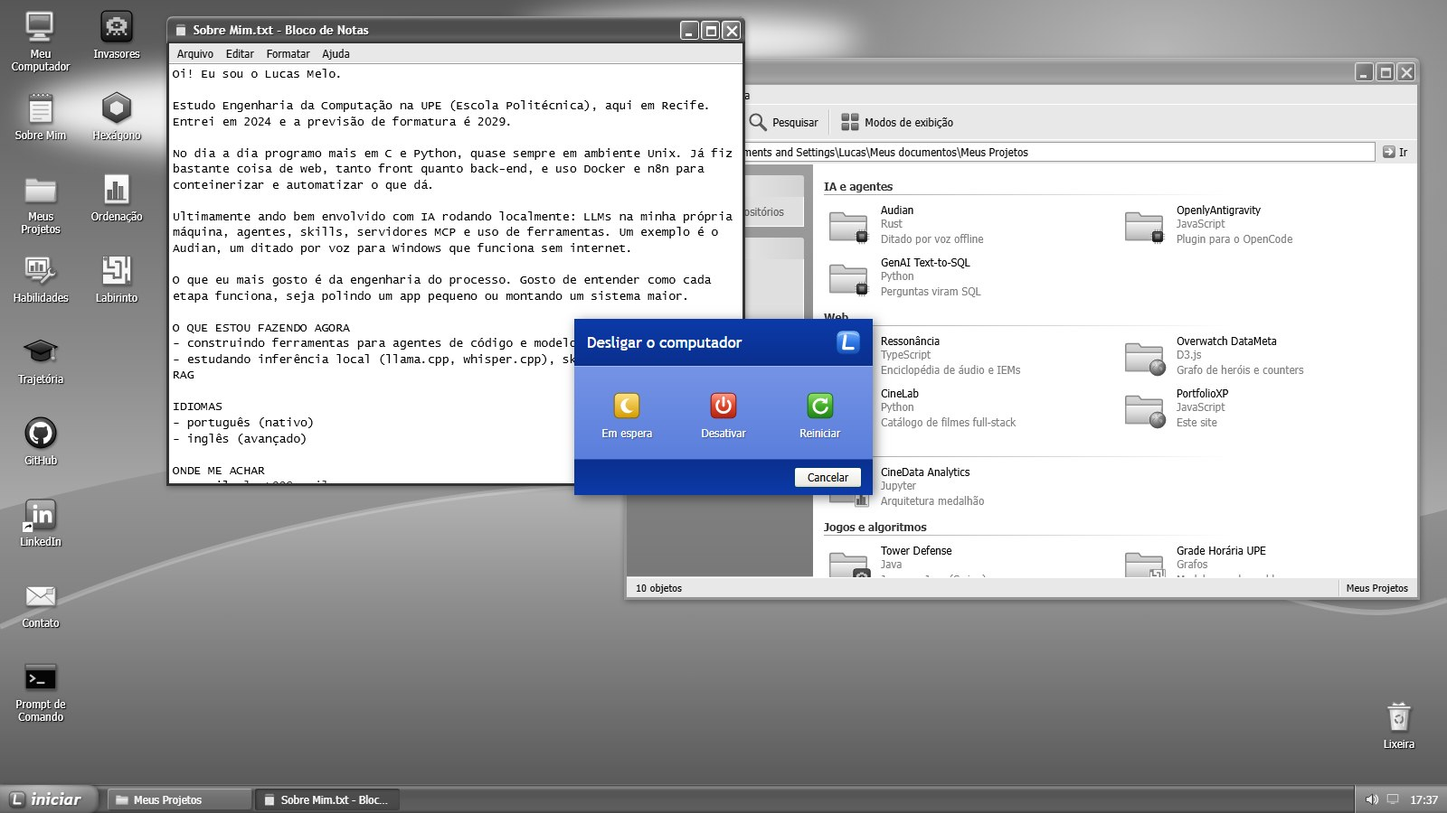
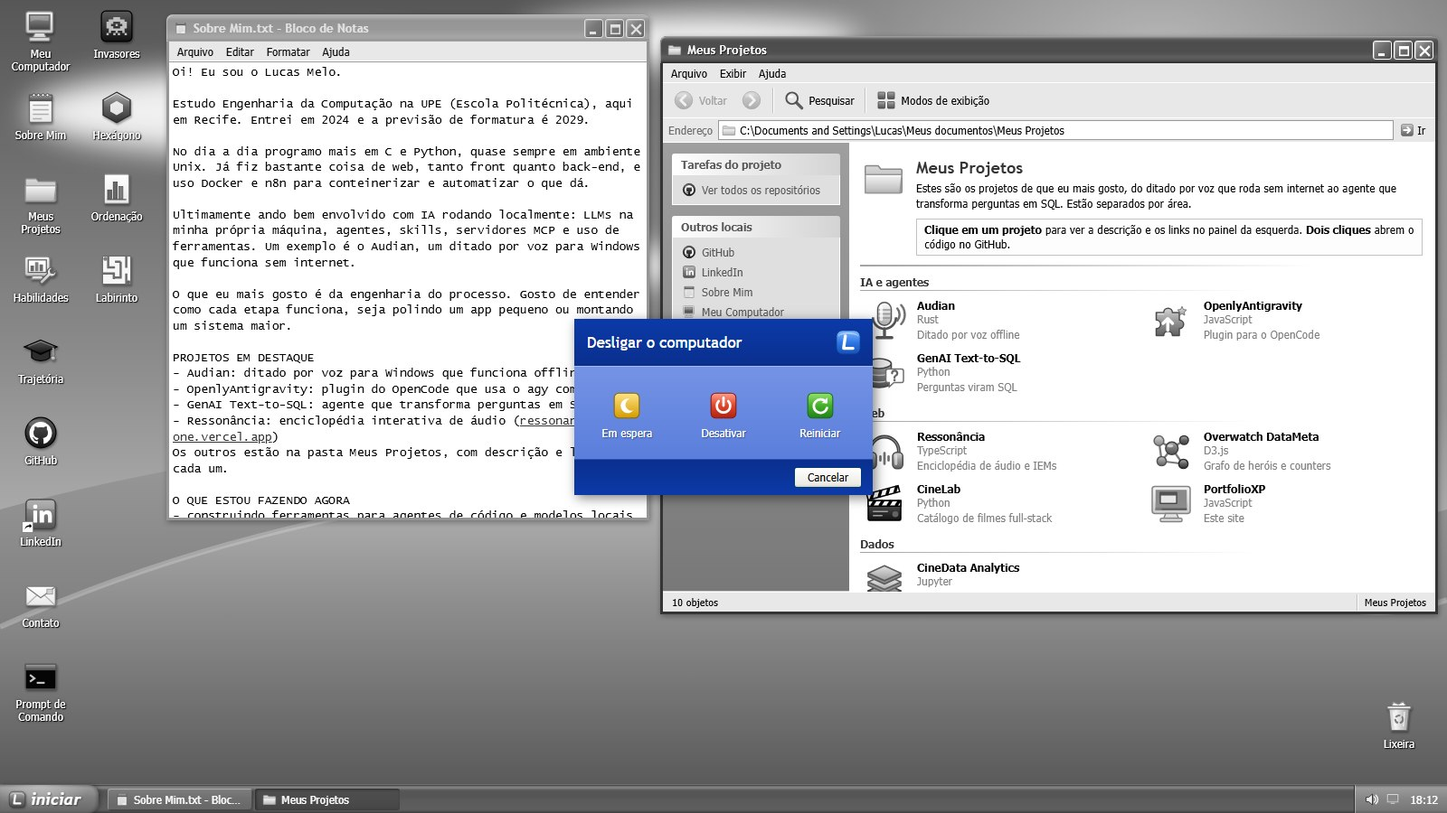
Projetos com ícones próprios e mais destaque
- Cada projeto ganhou um ícone no estilo XP no lugar da pasta genérica
- Texto de apresentação no topo de Meus Projetos explicando como ver cada projeto
- Ícone grande no painel Detalhes, nomes em negrito e ícones também no Executar
- Sobre Mim lista os projetos em destaque e o balão de boas-vindas aponta para a pasta
- Na abertura, Meus Projetos fica na frente, lado a lado com o Sobre Mim

Changed region(s): [[0.0938, 0.0, 1.0, 0.7778], [0.1875, 0.9644, 0.25, 0.9956], [0.0938, 0.9644, 0.1562, 0.9956]]

diff --git a/index.html b/index.html
@@ -30,9 +30,9 @@
   if(sessionStorage.getItem('lucasos:booted')||matchMedia('(prefers-reduced-motion: reduce)').matches)d.classList.add('no-boot');
 }catch(e){}})();
 </script>
-<link rel="stylesheet" href="assets/css/style.css?v=3.0.0">
-<script src="assets/js/os.js?v=3.0.0" defer></script>
-<script src="assets/js/apps.js?v=3.0.0" defer></script>
+<link rel="stylesheet" href="assets/css/style.css?v=3.1.0">
+<script src="assets/js/os.js?v=3.1.0" defer></script>
+<script src="assets/js/apps.js?v=3.1.0" defer></script>
 <script type="application/ld+json">
 {
   "@context":"https://schema.org",
@@ -79,7 +79,23 @@
     <linearGradient id="g-bin" x1="0" y1="0" x2="1" y2="0"><stop offset="0" stop-color="#b8c6dd"/><stop offset=".35" stop-color="#eef3fb"/><stop offset="1" stop-color="#8fa2c4"/></linearGradient>
     <linearGradient id="g-brown" x1="0" y1="0" x2="0" y2="1"><stop offset="0" stop-color="#d9a36a"/><stop offset="1" stop-color="#8a5627"/></linearGradient>
     <linearGradient id="g-logo" x1="0" y1="0" x2="0" y2="1"><stop offset="0" stop-color="#7fb8ff"/><stop offset=".5" stop-color="#2f78e6"/><stop offset="1" stop-color="#1450b8"/></linearGradient>
+    <linearGradient id="g-teal" x1="0" y1="0" x2="0" y2="1"><stop offset="0" stop-color="#7ff0d6"/><stop offset=".5" stop-color="#25b597"/><stop offset="1" stop-color="#0f7a64"/></linearGradient>
+    <linearGradient id="g-bronze" x1="0" y1="0" x2="0" y2="1"><stop offset="0" stop-color="#f3b77e"/><stop offset="1" stop-color="#9a5a25"/></linearGradient>
+    <linearGradient id="g-silver" x1="0" y1="0" x2="0" y2="1"><stop offset="0" stop-color="#fff"/><stop offset="1" stop-color="#a7afbd"/></linearGradient>
+    <linearGradient id="g-stone" x1="0" y1="0" x2="1" y2="0"><stop offset="0" stop-color="#b9bfc9"/><stop offset=".45" stop-color="#e6e9ee"/><stop offset="1" stop-color="#959cab"/></linearGradient>
   </defs>
+
+  <!-- Ícones dos projetos -->
+  <symbol id="p-audian" viewBox="0 0 32 32"><path d="M7.5 13.5a8.5 8.5 0 0 0 17 0" fill="none" stroke="#4d5563" stroke-width="1.8"/><path d="M16 22v5M10.5 28.5h11" stroke="#4d5563" stroke-width="2.2" stroke-linecap="round"/><rect x="11" y="2.5" width="10" height="17" rx="5" fill="url(#g-silver)" stroke="#4d5563"/><path d="M11.5 8h9M11.5 11h9M11.5 14h9" stroke="#8a93a3"/><rect x="12.6" y="4.2" width="2.2" height="12" rx="1.1" fill="#fff" opacity=".8"/><path d="M25.5 7a7 7 0 0 1 0 9M28.3 4.5a10.5 10.5 0 0 1 0 14" fill="none" stroke="#2f78e6" stroke-width="1.7" stroke-linecap="round"/></symbol>
+  <symbol id="p-antigravity" viewBox="0 0 32 32"><path d="M5 10h5.5a3.2 3.2 0 1 1 6.4 0H22v5.5a3.2 3.2 0 1 1 0 6.4V27h-5.1a3.2 3.2 0 1 0-6.4 0H5v-5.1a3.2 3.2 0 1 0 0-6.4z" fill="url(#g-teal)" stroke="#0b5d4c" stroke-linejoin="round"/><path d="M6 11h4.8" stroke="#fff" stroke-opacity=".6"/><path d="M13.5 23v-8.5M10 18l3.5-3.5L17 18" fill="none" stroke="#fff" stroke-width="2.3" stroke-linecap="round" stroke-linejoin="round"/><path d="M24 5.5l1 2.2 2.3.4-1.7 1.6.4 2.3-2-1.1-2 1.1.4-2.3-1.7-1.6 2.3-.4z" fill="url(#g-gold)" stroke="#8a6a00" stroke-width=".6"/></symbol>
+  <symbol id="p-texttosql" viewBox="0 0 32 32"><path d="M3 9v14c0 2 4 3.6 9 3.6s9-1.6 9-3.6V9" fill="url(#g-blue)" stroke="#1d4590"/><path d="M3 14c0 2 4 3.6 9 3.6s9-1.6 9-3.6M3 19c0 2 4 3.6 9 3.6s9-1.6 9-3.6" fill="none" stroke="#a8c6f7"/><ellipse cx="12" cy="9" rx="9" ry="3.6" fill="#d6e6ff" stroke="#1d4590"/><path d="M18.5 13h10a1.5 1.5 0 0 1 1.5 1.5v7a1.5 1.5 0 0 1-1.5 1.5h-5.5l-3.5 3.2V23h-1a1.5 1.5 0 0 1-1.5-1.5v-7a1.5 1.5 0 0 1 1.5-1.5z" fill="#fff" stroke="#5f6f8a"/><path d="M21.6 16.2a1.9 1.9 0 1 1 2.7 1.7c-.5.3-.9.6-.9 1.3v.3" fill="none" stroke="#e0452c" stroke-width="1.5" stroke-linecap="round"/><circle cx="23.4" cy="21.2" r=".9" fill="#e0452c"/></symbol>
+  <symbol id="p-ressonancia" viewBox="0 0 32 32"><path d="M5.5 19v-3.5a10.5 10.5 0 0 1 21 0V19" fill="none" stroke="#3b3f48" stroke-width="2.6"/><path d="M5.5 19v-3.5a10.5 10.5 0 0 1 21 0V19" fill="none" stroke="#8a919c" stroke-width=".8"/><rect x="2.5" y="16.5" width="7.5" height="12" rx="3" fill="url(#g-teal)" stroke="#0b5d4c"/><rect x="22" y="16.5" width="7.5" height="12" rx="3" fill="url(#g-teal)" stroke="#0b5d4c"/><rect x="4" y="18" width="2" height="8" rx="1" fill="#fff" opacity=".55"/><rect x="23.5" y="18" width="2" height="8" rx="1" fill="#fff" opacity=".55"/><path d="M13 22.5v-3M16 25v-8M19 22.5v-3" stroke="#2f78e6" stroke-width="1.8" stroke-linecap="round"/></symbol>
+  <symbol id="p-overwatch" viewBox="0 0 32 32"><path d="M7 8l9.5 5.5M7 8l2 15M16.5 13.5l9-6M16.5 13.5L9 23M16.5 13.5l8 11.5M9 23l16 2" stroke="#6f7a8c" stroke-width="1.5"/><circle cx="7" cy="8" r="3.6" fill="url(#g-orange)" stroke="#a05a00"/><circle cx="25.5" cy="7.5" r="3.2" fill="url(#g-red)" stroke="#8a1a0c"/><circle cx="9" cy="23" r="3.4" fill="url(#g-green)" stroke="#1e6b14"/><circle cx="25" cy="25" r="3.4" fill="url(#g-purple)" stroke="#5a1278"/><circle cx="16.5" cy="13.5" r="4.6" fill="url(#g-blue)" stroke="#1d4590"/><ellipse cx="15.3" cy="11.7" rx="2.2" ry="1.2" fill="#fff" opacity=".6"/></symbol>
+  <symbol id="p-cinelab" viewBox="0 0 32 32"><path d="M4 13.5h24V27a1 1 0 0 1-1 1H5a1 1 0 0 1-1-1z" fill="url(#g-dark)" stroke="#000"/><path d="M4 13.5h24v4H4z" fill="#fff" stroke="#000"/><path d="M9 13.5l-2.6 4M15 13.5l-2.6 4M21 13.5l-2.6 4M27 13.5l-2.6 4" stroke="#000" stroke-width="2.2"/><g transform="rotate(-15 4 13)"><path d="M4 8.5h24V13H4z" fill="#fff" stroke="#000"/><path d="M9 8.5 6.2 13M15 8.5 12.2 13M21 8.5 18.2 13M27 8.5 24.2 13" stroke="#000" stroke-width="2.2"/></g><path d="M7.5 21.5h11M7.5 24.5h7" stroke="#9aa1ad"/><circle cx="24" cy="23.5" r="2.2" fill="#e0452c"/></symbol>
+  <symbol id="p-portfolio" viewBox="0 0 32 32"><rect x="2" y="3" width="28" height="20" rx="2" fill="url(#g-beige)" stroke="#8c8466"/><rect x="4.5" y="5.5" width="23" height="15" fill="#4b93ec"/><path d="M4.5 15.5c6-3 13-3 23 0v5h-23z" fill="#4fa82a"/><rect x="8" y="7.5" width="12" height="8" fill="#ece9d8" stroke="#0831d9" stroke-width=".8"/><rect x="8" y="7.5" width="12" height="2.2" fill="#0a5be8"/><rect x="4.5" y="19" width="23" height="1.5" fill="#245edc"/><rect x="4.5" y="19" width="4.5" height="1.5" fill="#3c9a3c"/><path d="M12 23h8l1.5 3.5h-11z" fill="url(#g-beige)" stroke="#8c8466"/><rect x="8" y="26.5" width="16" height="2.5" rx="1" fill="url(#g-beige)" stroke="#8c8466"/></symbol>
+  <symbol id="p-cinedata" viewBox="0 0 32 32"><path d="M4 22v2.5L16 30l12-5.5V22L16 27.5z" fill="#7a4a1e" stroke="#5c3a17" stroke-linejoin="round"/><path d="M16 16.5 28 22l-12 5.5L4 22z" fill="url(#g-bronze)" stroke="#5c3a17" stroke-linejoin="round"/><path d="M4 15.5V18l12 5.5L28 18v-2.5L16 21z" fill="#8b93a3" stroke="#5a6272" stroke-linejoin="round"/><path d="M16 10 28 15.5 16 21 4 15.5z" fill="url(#g-silver)" stroke="#5a6272" stroke-linejoin="round"/><path d="M4 9v2.5L16 17l12-5.5V9L16 14.5z" fill="#b88a00" stroke="#7a5a00" stroke-linejoin="round"/><path d="M16 3.5 28 9l-12 5.5L4 9z" fill="url(#g-gold)" stroke="#7a5a00" stroke-linejoin="round"/></symbol>
+  <symbol id="p-tower" viewBox="0 0 32 32"><path d="M16.5 8.5V2.5" stroke="#555" stroke-width="1.2"/><path d="M17 2.5h6.5l-2 2.2 2 2.2H17z" fill="#e0452c" stroke="#8a1a0c" stroke-width=".6"/><path d="M9 29V13h14v16z" fill="url(#g-stone)" stroke="#4d5563"/><path d="M7.5 13.5V8.5h3.2v2.2h3V8.5h4.6v2.2h3V8.5h3.2v5z" fill="url(#g-stone)" stroke="#4d5563"/><path d="M9 18h14M9 23h14M13 13.5V18M19 18v5M13 23v6" stroke="#9aa1ad" stroke-width=".8"/><path d="M13.5 29v-4.5a2.5 2.5 0 0 1 5 0V29z" fill="#6b4420" stroke="#3e2710" stroke-width=".7"/><rect x="14.6" y="14.6" width="2.8" height="3.6" rx="1.2" fill="#2b2b2b"/></symbol>
+  <symbol id="p-grade" viewBox="0 0 32 32"><rect x="3.5" y="6" width="25" height="23" rx="1.5" fill="url(#g-paper)" stroke="#5f6f8a"/><path d="M3.5 7.5A1.5 1.5 0 0 1 5 6h22a1.5 1.5 0 0 1 1.5 1.5V12h-25z" fill="url(#g-red)" stroke="#8a1a0c"/><path d="M10 3.5v5M22 3.5v5" stroke="#4d5563" stroke-width="2.2" stroke-linecap="round"/><path d="M3.5 18h25M3.5 24h25M12 12v17M20 12v17" stroke="#d3dbe8"/><path d="M8 21l8 5 8-11" fill="none" stroke="#2f78e6" stroke-width="1.6"/><circle cx="8" cy="21" r="2.2" fill="url(#g-green)" stroke="#1e6b14" stroke-width=".7"/><circle cx="16" cy="26" r="2.2" fill="url(#g-orange)" stroke="#a05a00" stroke-width=".7"/><circle cx="24" cy="15" r="2.2" fill="url(#g-blue)" stroke="#1d4590" stroke-width=".7"/></symbol>
 
   <!-- Marca do LucasOS -->
   <symbol id="x-logo" viewBox="0 0 32 32"><rect x="2" y="2" width="28" height="28" rx="7" fill="url(#g-logo)" stroke="#0d3a8c"/><path d="M4 9c4-4 20-4 24 0v-1C24 3 8 3 4 8z" fill="#fff" opacity=".45"/><path d="M12.5 8.5 10.5 23h11" fill="none" stroke="#fff" stroke-width="3.6" stroke-linecap="round" stroke-linejoin="round"/></symbol>
@@ -239,6 +255,13 @@ Ultimamente ando bem envolvido com IA rodando localmente: LLMs na minha própria
 
 O que eu mais gosto é da engenharia do processo. Gosto de entender como cada etapa funciona, seja polindo um app pequeno ou montando um sistema maior.
 
+PROJETOS EM DESTAQUE
+- Audian: ditado por voz para Windows que funciona offline (Rust)
+- OpenlyAntigravity: plugin do OpenCode que usa o agy como agente
+- GenAI Text-to-SQL: agente que transforma perguntas em SQL
+- Ressonância: enciclopédia interativa de áudio (<a href="https://ressonancia-one.vercel.app" target="_blank" rel="noopener">ressonancia-one.vercel.app</a>)
+Os outros estão na pasta Meus Projetos, com descrição e links de cada um.
+
 O QUE ESTOU FAZENDO AGORA
 - construindo ferramentas para agentes de código e modelos locais
 - estudando inferência local (llama.cpp, whisper.cpp), skills de agentes, MCP e RAG
@@ -258,7 +281,7 @@ Dá dois cliques nos outros ícones da área de trabalho pra ver o resto.
   </section>
 
   <!-- MEUS PROJETOS (Explorer) -->
-  <section class="window" data-app="projetos" data-w="880" data-h="600">
+  <section class="window" data-app="projetos" data-w="860" data-h="640">
     <div class="win-body app explorer" data-explorer data-view="tiles" data-empty-title="Meus Projetos" data-empty-sub="Pasta de arquivos">
       <div class="menubar" role="menubar">
         <div class="mb"><button class="mb-btn" type="button">Arquivo</button>
@@ -289,24 +312,33 @@ Dá dois cliques nos outros ícones da área de trabalho pra ver o resto.
           <section class="tp"><h3 class="tp-h">Detalhes</h3><div class="tp-b tp-details" data-details></div></section>
         </aside>
         <div class="ex-view">
+          <div class="ex-intro">
+            <svg class="xi"><use href="#x-folder"/></svg>
+            <div>
+              <h3>Meus Projetos</h3>
+              <p>Estes são os projetos de que eu mais gosto, do ditado por voz que roda sem internet ao agente que transforma perguntas em SQL. Estão separados por área.</p>
+              <p class="ex-tip ex-tip-wide"><b>Clique em um projeto</b> para ver a descrição e os links no painel da esquerda. <b>Dois cliques</b> abrem o código no GitHub.</p>
+              <p class="ex-tip ex-tip-narrow">Cada projeto tem uma descrição e links para o código e, quando existe, para o site.</p>
+            </div>
+          </div>
           <div class="ex-header" aria-hidden="true"><span>Nome</span><span>Linguagem</span><span>Resumo</span></div>
 
           <h4 class="ex-group">IA e agentes</h4>
           <div class="ex-items">
             <article class="ex-item" tabindex="0" data-code="https://github.com/LucassTml/audian" data-download="https://github.com/LucassTml/audian/releases/latest">
-              <span class="ex-ico"><svg class="xi"><use href="#x-folder"/></svg><svg class="xi em"><use href="#x-chip"/></svg></span>
+              <span class="ex-ico"><svg class="xi"><use href="#p-audian"/></svg></span>
               <h3 class="ex-name">Audian</h3><span class="ex-c2">Rust</span><span class="ex-c3">Ditado por voz offline</span>
               <p class="ex-desc">Ditado por voz para Windows, open-source e inspirado no Wispr Flow. O reconhecimento de fala (Whisper ou Parakeet) e um LLM pequeno (Qwen) rodam no próprio computador, sem internet, e transformam o que você fala em texto bem escrito em qualquer programa.</p>
               <div class="ex-links"><a href="https://github.com/LucassTml/audian" target="_blank" rel="noopener">Código</a><a href="https://github.com/LucassTml/audian/releases/latest" target="_blank" rel="noopener">Baixar</a></div>
             </article>
             <article class="ex-item" tabindex="0" data-code="https://github.com/LucassTml/OpenlyAntigravity">
-              <span class="ex-ico"><svg class="xi"><use href="#x-folder"/></svg><svg class="xi em"><use href="#x-chip"/></svg></span>
+              <span class="ex-ico"><svg class="xi"><use href="#p-antigravity"/></svg></span>
               <h3 class="ex-name">OpenlyAntigravity</h3><span class="ex-c2">JavaScript</span><span class="ex-c3">Plugin para o OpenCode</span>
               <p class="ex-desc">Plugin para o OpenCode que usa o seu próprio Antigravity (agy) no terminal como agente. Assim dá pra aproveitar o plano do Google que você já paga, sem chave de API paga e sem OAuth.</p>
               <div class="ex-links"><a href="https://github.com/LucassTml/OpenlyAntigravity" target="_blank" rel="noopener">Código</a></div>
             </article>
             <article class="ex-item" tabindex="0" data-code="https://github.com/LucassTml/GenAI-WebInterface-RocketLab-2026_2">
-              <span class="ex-ico"><svg class="xi"><use href="#x-folder"/></svg><svg class="xi em"><use href="#x-chip"/></svg></span>
+              <span class="ex-ico"><svg class="xi"><use href="#p-texttosql"/></svg></span>
               <h3 class="ex-name">GenAI Text-to-SQL</h3><span class="ex-c2">Python</span><span class="ex-c3">Perguntas viram SQL</span>
               <p class="ex-desc">Agente que transforma perguntas em português em consultas SQL sobre a camada Gold do CineData, no Databricks. Tem guardrails, busca semântica, troca de modelo pelo OpenRouter e interface em Streamlit.</p>
               <div class="ex-links"><a href="https://github.com/LucassTml/GenAI-WebInterface-RocketLab-2026_2" target="_blank" rel="noopener">Código</a></div>
@@ -316,25 +348,25 @@ Dá dois cliques nos outros ícones da área de trabalho pra ver o resto.
           <h4 class="ex-group">Web</h4>
           <div class="ex-items">
             <article class="ex-item" tabindex="0" data-site="https://ressonancia-one.vercel.app" data-code="https://github.com/LucassTml/ressonancia">
-              <span class="ex-ico"><svg class="xi"><use href="#x-folder"/></svg><svg class="xi em"><use href="#x-globe"/></svg></span>
+              <span class="ex-ico"><svg class="xi"><use href="#p-ressonancia"/></svg></span>
               <h3 class="ex-name">Ressonância</h3><span class="ex-c2">TypeScript</span><span class="ex-c3">Enciclopédia de áudio e IEMs</span>
               <p class="ex-desc">Enciclopédia interativa de áudio, psicoacústica e fones IEM, em português e inglês. Tem dezenas de laboratórios em Web Audio que processam o som direto no navegador.</p>
               <div class="ex-links"><a href="https://ressonancia-one.vercel.app" target="_blank" rel="noopener">Abrir site</a><a href="https://github.com/LucassTml/ressonancia" target="_blank" rel="noopener">Código</a></div>
             </article>
             <article class="ex-item" tabindex="0" data-site="https://overwatch-data-meta.vercel.app" data-code="https://github.com/LucassTml/Overwatch-DataMeta">
-              <span class="ex-ico"><svg class="xi"><use href="#x-folder"/></svg><svg class="xi em"><use href="#x-globe"/></svg></span>
+              <span class="ex-ico"><svg class="xi"><use href="#p-overwatch"/></svg></span>
               <h3 class="ex-name">Overwatch DataMeta</h3><span class="ex-c2">D3.js</span><span class="ex-c3">Grafo de heróis e counters</span>
               <p class="ex-desc">Grafo interativo dos heróis de Overwatch 2, com funções, habilidades, counters e sinergias. O protótipo foi em Python com NetworkX e a versão final em D3.js.</p>
               <div class="ex-links"><a href="https://overwatch-data-meta.vercel.app" target="_blank" rel="noopener">Abrir site</a><a href="https://github.com/LucassTml/Overwatch-DataMeta" target="_blank" rel="noopener">Código</a></div>
             </article>
             <article class="ex-item" tabindex="0" data-code="https://github.com/LucassTml/CineLab_RocketLab2026.2">
-              <span class="ex-ico"><svg class="xi"><use href="#x-folder"/></svg><svg class="xi em"><use href="#x-globe"/></svg></span>
+              <span class="ex-ico"><svg class="xi"><use href="#p-cinelab"/></svg></span>
               <h3 class="ex-name">CineLab</h3><span class="ex-c2">Python</span><span class="ex-c3">Catálogo de filmes full-stack</span>
               <p class="ex-desc">Site completo, com front e back-end, para gerenciar um catálogo de filmes, com cadastro e edição. Foi uma atividade do RocketLab 2026.2.</p>
               <div class="ex-links"><a href="https://github.com/LucassTml/CineLab_RocketLab2026.2" target="_blank" rel="noopener">Código</a></div>
             </article>
             <article class="ex-item" tabindex="0" data-code="https://github.com/LucassTml/PortfolioXP">
-              <span class="ex-ico"><svg class="xi"><use href="#x-folder"/></svg><svg class="xi em"><use href="#x-globe"/></svg></span>
+              <span class="ex-ico"><svg class="xi"><use href="#p-portfolio"/></svg></span>
               <h3 class="ex-name">PortfolioXP</h3><span class="ex-c2">JavaScript</span><span class="ex-c3">Este site</span>
               <p class="ex-desc">Este site. Um sistema operacional de mentira, feito com HTML, CSS e JavaScript, sem biblioteca nenhuma.</p>
               <div class="ex-links"><a href="https://github.com/LucassTml/PortfolioXP" target="_blank" rel="noopener">Código</a></div>
@@ -344,7 +376,7 @@ Dá dois cliques nos outros ícones da área de trabalho pra ver o resto.
           <h4 class="ex-group">Dados</h4>
           <div class="ex-items">
             <article class="ex-item" tabindex="0" data-code="https://github.com/LucassTml/CineData-Analytics-DataBricks">
-              <span class="ex-ico"><svg class="xi"><use href="#x-folder"/></svg><svg class="xi em"><use href="#x-chart"/></svg></span>
+              <span class="ex-ico"><svg class="xi"><use href="#p-cinedata"/></svg></span>
               <h3 class="ex-name">CineData Analytics</h3><span class="ex-c2">Jupyter</span><span class="ex-c3">Arquitetura medalhão</span>
               <p class="ex-desc">Arquitetura medalhão (bronze, prata e ouro) no Databricks, feita no RocketLab 2026.2 da Visagio.</p>
               <div class="ex-links"><a href="https://github.com/LucassTml/CineData-Analytics-DataBricks" target="_blank" rel="noopener">Código</a></div>
@@ -354,13 +386,13 @@ Dá dois cliques nos outros ícones da área de trabalho pra ver o resto.
           <h4 class="ex-group">Jogos e algoritmos</h4>
           <div class="ex-items">
             <article class="ex-item" tabindex="0" data-code="https://github.com/LucassTml/Projeto-TowerDefense">
-              <span class="ex-ico"><svg class="xi"><use href="#x-folder"/></svg><svg class="xi em"><use href="#x-invader"/></svg></span>
+              <span class="ex-ico"><svg class="xi"><use href="#p-tower"/></svg></span>
               <h3 class="ex-name">Tower Defense</h3><span class="ex-c2">Java</span><span class="ex-c3">Jogo em Java (Swing)</span>
               <p class="ex-desc">Um tower defense completo, feito em Java com a biblioteca Swing.</p>
               <div class="ex-links"><a href="https://github.com/LucassTml/Projeto-TowerDefense" target="_blank" rel="noopener">Código</a></div>
             </article>
             <article class="ex-item" tabindex="0" data-code="https://github.com/LucassTml/Grade-Horaria-UPE-Modelagem_Problema_Grafos">
-              <span class="ex-ico"><svg class="xi"><use href="#x-folder"/></svg><svg class="xi em"><use href="#x-maze"/></svg></span>
+              <span class="ex-ico"><svg class="xi"><use href="#p-grade"/></svg></span>
               <h3 class="ex-name">Grade Horária UPE</h3><span class="ex-c2">Grafos</span><span class="ex-c3">Modelagem de problema</span>
               <p class="ex-desc">Minha parte na Equipe Astro da disciplina de Teoria dos Grafos: modelar o problema da grade horária da UPE de um jeito que o resto do time entendesse, em diagrama e em texto, sempre ligado ao código.</p>
               <div class="ex-links"><a href="https://github.com/LucassTml/Grade-Horaria-UPE-Modelagem_Problema_Grafos" target="_blank" rel="noopener">Código</a></div>

diff --git a/assets/js/os.js b/assets/js/os.js
@@ -51,7 +51,7 @@ const clamp = (v, a, b) => Math.min(b, Math.max(a, v));
 const esc = s => String(s).replace(/[&<>"']/g, c => ({ '&': '&amp;', '<': '&lt;', '>': '&gt;', '"': '&quot;', "'": '&#39;' }[c]));
 const norm = s => String(s).normalize('NFD').replace(/[̀-ͯ]/g, '').toLowerCase();
 const isTyping = t => !!t && (t.isContentEditable || /^(INPUT|TEXTAREA|SELECT)$/.test(t.tagName));
-const icon = (name, cls = 'xi') => `<svg class="${cls}" aria-hidden="true"><use href="#x-${name}"/></svg>`;
+const icon = (name, cls = 'xi') => `<svg class="${cls}" aria-hidden="true"><use href="#${name.startsWith('p-') ? name : 'x-' + name}"/></svg>`;
 const wait = ms => new Promise(r => setTimeout(r, ms));
 const APP = Object.fromEntries(APPS.map(a => [a.id, a]));
 
@@ -283,8 +283,8 @@ function buildWindow(el) {
 
 function place(w, pos) {
   const el = w.el, hr = hostRect();
-  const W = Math.min(+el.dataset.w || 520, hr.width - 16);
-  const H = Math.min(+el.dataset.h || 420, hr.height - 16);
+  const W = Math.min((pos && pos.w) || +el.dataset.w || 520, hr.width - 16);
+  const H = Math.min((pos && pos.h) || +el.dataset.h || 420, hr.height - 16);
   let x, y;
   if (pos) { x = pos.x; y = pos.y; }
   else {
@@ -987,7 +987,8 @@ function searchIndex(q) {
   $$('[data-app="projetos"] .ex-item').forEach(it => {
     const name = it.querySelector('.ex-name').textContent;
     const href = it.dataset.site || it.dataset.code;
-    items.push({ title: name, sub: 'Projeto: ' + it.querySelector('.ex-c3').textContent, icon: 'folder', words: `${name} ${it.querySelector('.ex-c2').textContent} ${it.querySelector('.ex-desc').textContent}`, run: () => window.open(href, '_blank', 'noopener') });
+    const ico = it.querySelector('.ex-ico use').getAttribute('href').replace('#x-', '').replace('#', '');
+    items.push({ title: name, sub: 'Projeto: ' + it.querySelector('.ex-c3').textContent, icon: ico, words: `${name} ${it.querySelector('.ex-c2').textContent} ${it.querySelector('.ex-desc').textContent}`, run: () => window.open(href, '_blank', 'noopener') });
   });
   [['tema azul', 'Esquema de cores Azul', () => { setSetting('theme', 'xp'); setSetting('scheme', 'azul'); }],
    ['tema verde-oliva', 'Esquema de cores Verde-oliva', () => { setSetting('theme', 'xp'); setSetting('scheme', 'oliva'); }],
@@ -1031,11 +1032,14 @@ function openBootWindows() {
   const hr = hostRect();
   const iconsRight = Math.max(...$$('.dicon:not(.corner)').map(d => d.getBoundingClientRect().right), 100) + 14;
   const proj = wins.get('projetos'), sobre = wins.get('sobre');
+  // "Sobre Mim" à esquerda e "Meus Projetos" à direita, na frente; lado a lado quando a tela permite.
   const pw = Math.min(+proj.el.dataset.w, hr.width - 16);
-  place(proj, { x: Math.max(iconsRight + 170, hr.width - pw - 30), y: 64 });
-  place(sobre, { x: iconsRight, y: 18 });
-  openApp('projetos', { silent: true });
+  const free = hr.width - iconsRight - 12;
+  const sw = clamp(free - pw - 10, 420, 560);
+  place(sobre, { x: iconsRight, y: 16, w: sw, h: Math.min(560, hr.height - 40) });
+  place(proj, { x: Math.max(iconsRight + 140, iconsRight + sw + 10, hr.width - pw - 10), y: 40 });
   openApp('sobre', { silent: true });
+  openApp('projetos', { silent: true });
 }
 function startDesktop(delayBalloon) {
   const hashId = location.hash.slice(1);
@@ -1047,8 +1051,8 @@ function startDesktop(delayBalloon) {
     setTimeout(() => balloon({
       title: 'Bem-vindo ao LucasOS',
       text: isMobile()
-        ? 'Toque em um ícone para abrir. O botão iniciar tem todos os programas.'
-        : 'Dê dois cliques em um ícone para abrir. O botão iniciar tem todos os programas, e Ctrl+K abre o Executar.',
+        ? 'Meus projetos estão na pasta Meus Projetos. Toque em qualquer ícone para abrir.'
+        : 'Meus projetos estão na pasta Meus Projetos, já aberta. Dê dois cliques nos outros ícones para ver o resto.',
     }), delayBalloon);
   }
   resetIdle();

diff --git a/assets/css/style.css b/assets/css/style.css
@@ -337,6 +337,14 @@ input[type="range"]{accent-color:#316ac5;width:110px;vertical-align:middle}
 .tp-details p{margin:0 0 6px}
 .ex-view{position:relative;flex:1;min-width:0;overflow:auto;background:#fff;padding:6px 12px 12px;border-top:1px solid #fff}
 .ex-header{display:none}
+.ex-intro{display:flex;gap:12px;align-items:flex-start;padding:8px 2px 12px;margin-bottom:2px;background:linear-gradient(90deg,var(--group-line),rgba(255,255,255,0) 80%) left bottom/100% 2px no-repeat}
+.ex-intro > .xi{width:48px;height:48px;flex:none}
+.ex-intro h3{margin:2px 0 4px;font:bold 18px var(--font-title);color:#1e3287}
+.ex-intro p{margin:0 0 6px;max-width:640px}
+.ex-tip{display:inline-block;margin:2px 0 0!important;padding:3px 8px;background:#ffffe1;border:1px solid #c9c2a0}
+.ex-tip-narrow{display:none!important}
+[data-app="projetos"] .ex-name{font-weight:bold}
+.tp-ico{display:block;width:48px;height:48px;margin:0 0 6px}
 .ex-group{margin:10px 0 6px;padding-bottom:3px;font:bold 12px var(--font);color:#1e3287;background:linear-gradient(90deg,var(--group-line),rgba(255,255,255,0) 70%) left bottom/100% 1px no-repeat}
 .ex-items{display:grid;grid-template-columns:repeat(auto-fill,minmax(230px,1fr));gap:4px 10px}
 .ex-item{display:grid;grid-template-columns:52px minmax(0,1fr);align-items:center;column-gap:6px;padding:3px;outline:none;cursor:default}
@@ -363,6 +371,9 @@ input[type="range"]{accent-color:#316ac5;width:110px;vertical-align:middle}
 .ex-empty{padding:16px;color:var(--gray)}
 @container (max-width:600px){
   .taskpane{display:none}
+  .ex-tip-wide{display:none!important}
+  .ex-tip-narrow{display:block!important}
+  .ex-intro > .xi{width:36px;height:36px}
   .explorer .ex-items,.explorer[data-view="details"] .ex-items{display:flex;flex-direction:column;gap:12px}
   .explorer .ex-item,.explorer[data-view="details"] .ex-item{grid-template-columns:40px minmax(0,1fr);align-items:start;padding:6px;border-bottom:1px solid #eee}
   .explorer .ex-ico,.explorer[data-view="details"] .ex-ico{grid-row:1 / span 5;width:36px;height:36px;margin:0}

diff --git a/assets/js/apps.js b/assets/js/apps.js
@@ -42,7 +42,7 @@ const isTyping = t => !!t && (t.isContentEditable || /^(INPUT|TEXTAREA|SELECT)$/
 const sleep = ms => new Promise(r => setTimeout(r, ms));
 const nextFrame = () => new Promise(r => requestAnimationFrame(() => r()));
 const el = (tag, cls, text) => { const e = document.createElement(tag); if (cls) e.className = cls; if (text != null) e.textContent = text; return e; };
-const svgIcon = name => { const s = document.createElementNS('http://www.w3.org/2000/svg', 'svg'); s.setAttribute('class', 'xi'); s.innerHTML = `<use href="#x-${name}"/>`; return s; };
+const svgIcon = name => { const s = document.createElementNS('http://www.w3.org/2000/svg', 'svg'); s.setAttribute('class', 'xi'); s.innerHTML = `<use href="#${name.startsWith('p-') ? name : 'x-' + name}"/>`; return s; };
 const MONO = '"Lucida Console", Consolas, monospace';
 // Escuta comandos de menu (data-cmd) de uma janela específica.
 const onCmd = (id, fn) => document.addEventListener('lucasos:cmd', e => { if (e.detail.id === id) fn(e.detail.cmd, e.detail.el); });
@@ -143,6 +143,14 @@ function explorer(id, win) {
   function show(it) {
     if (details) {
       details.replaceChildren();
+      // Ícone grande no topo do painel "Detalhes", como no XP.
+      const ico = (it ? it.querySelector('.ex-ico .xi') : win.querySelector('.t-icon'));
+      if (ico) {
+        const c = svgIcon('folder');
+        c.setAttribute('class', 'xi tp-ico');
+        c.innerHTML = `<use href="${ico.querySelector('use').getAttribute('href')}"/>`;
+        details.append(c);
+      }
       if (it) {
         details.append(el('b', null, it.querySelector('.ex-name').textContent));
         details.append(el('span', 'tp-sub', [it.querySelector('.ex-c2'), it.querySelector('.ex-c3')].filter(Boolean).map(x => x.textContent).join(' | ')));

diff --git a/README.md b/README.md
@@ -28,7 +28,7 @@ Tudo foi feito com **HTML, CSS e JavaScript puros**, sem biblioteca, framework o
 |:---:|---|---|
 | 🖥 | **Meu Computador** | "Propriedades do sistema" com um resumo sobre mim |
 | 📝 | **Sobre Mim** | Quem eu sou e o que estou fazendo agora, no Bloco de Notas |
-| 📁 | **Meus Projetos** | Pasta do Explorer com os projetos, painel de tarefas e detalhes de cada um |
+| 📁 | **Meus Projetos** | Pasta do Explorer com um ícone para cada projeto, separados por área, com descrição e links no painel de detalhes |
 | 🛠 | **Habilidades** | Janela de propriedades com abas: linguagens, IA, web e dados, ferramentas e pessoal |
 | 🎓 | **Trajetória** | UPE, RocketLab 2026.2 (Visagio) e formação, em modo de exibição "Detalhes" |
 | 🐙 | **GitHub** | Navegador com meu perfil e meus repositórios, carregados ao vivo pela API do GitHub |
